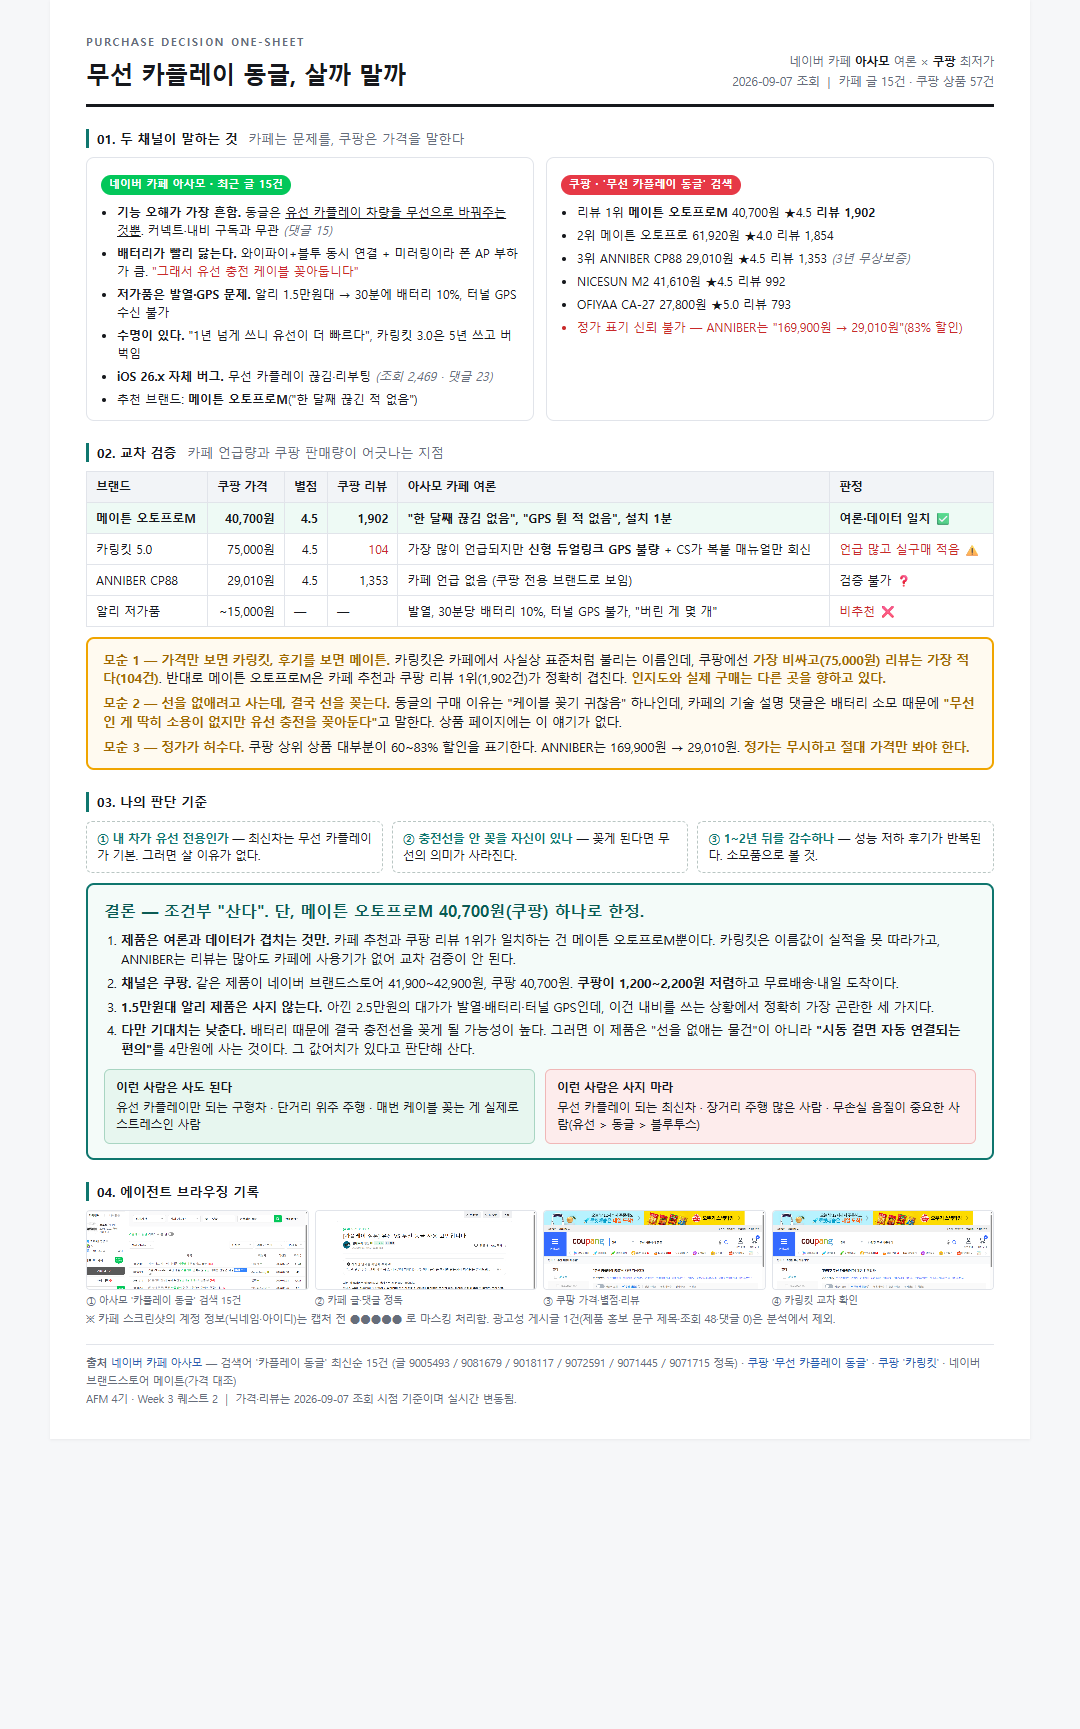
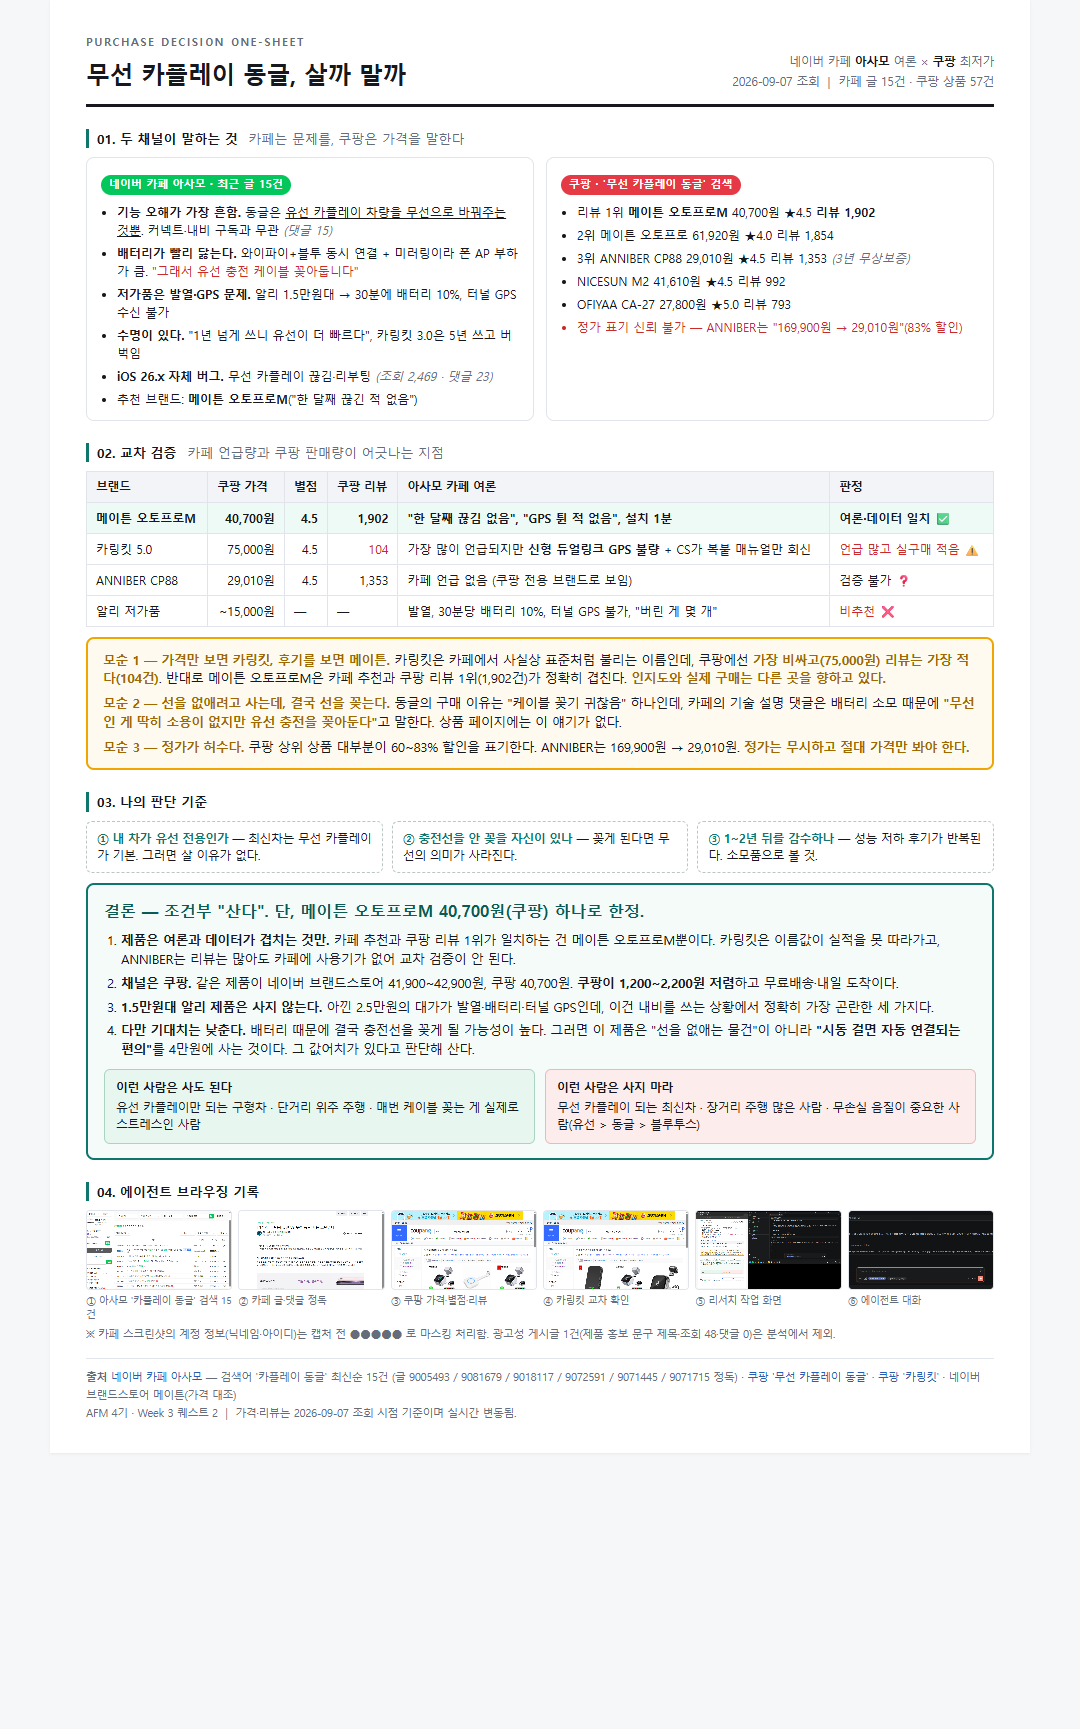
feat: quest2 에이전트 대화 스크린샷 추가
제출 필수 항목인 에이전트 대화 캡처를 전체 화면 캡처로 확보하고
작업 화면/대화 패널 2장으로 분리. 리포트 증빙 그리드에 반영.

Changed region(s): [[0.0611, 0.6871, 0.9167, 0.812]]

diff --git a/afm-4th/week-3/class/quest/02.카플레이동글-구매결정/index.html b/afm-4th/week-3/class/quest/02.카플레이동글-구매결정/index.html
@@ -65,7 +65,7 @@
   .no{background:#fdecec;border:1px solid #f0b7b7}
   .yn b{display:block;margin-bottom:3px}
 
-  .shots{display:grid;grid-template-columns:repeat(4,1fr);gap:6px}
+  .shots{display:grid;grid-template-columns:repeat(6,1fr);gap:6px}
   .shots figure{margin:0}
   .shots img{width:100%;height:80px;object-fit:cover;object-position:top center;
     border:1px solid var(--line);border-radius:4px;display:block}
@@ -171,6 +171,8 @@
   <figure><img src="shots/02-asamo-article.png" alt="아사모 글"><figcaption>② 카페 글·댓글 정독</figcaption></figure>
   <figure><img src="shots/03-coupang-search.png" alt="쿠팡 검색"><figcaption>③ 쿠팡 가격·별점·리뷰</figcaption></figure>
   <figure><img src="shots/04-coupang-carlinkit.png" alt="쿠팡 카링킷"><figcaption>④ 카링킷 교차 확인</figcaption></figure>
+  <figure><img src="shots/05-agent-desktop.png" alt="작업 화면"><figcaption>⑤ 리서치 작업 화면</figcaption></figure>
+  <figure><img src="shots/06-agent-chat-panel.png" alt="에이전트 대화"><figcaption>⑥ 에이전트 대화</figcaption></figure>
 </div>
 <p class="note">※ 카페 스크린샷의 계정 정보(닉네임·아이디)는 캡처 전 ●●●●● 로 마스킹 처리함. 광고성 게시글 1건(제품 홍보 문구 제목·조회 48·댓글 0)은 분석에서 제외.</p>
 
